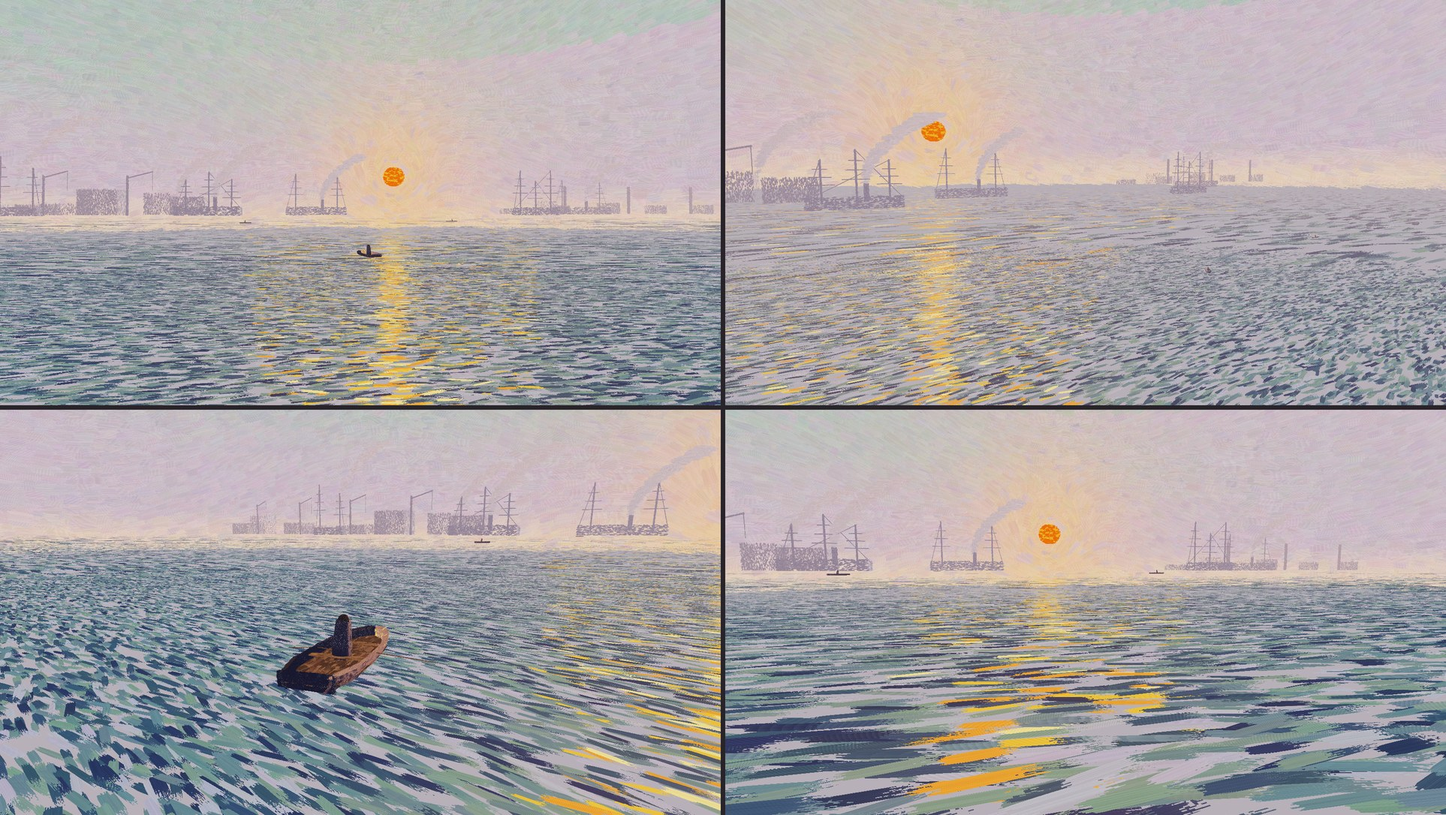
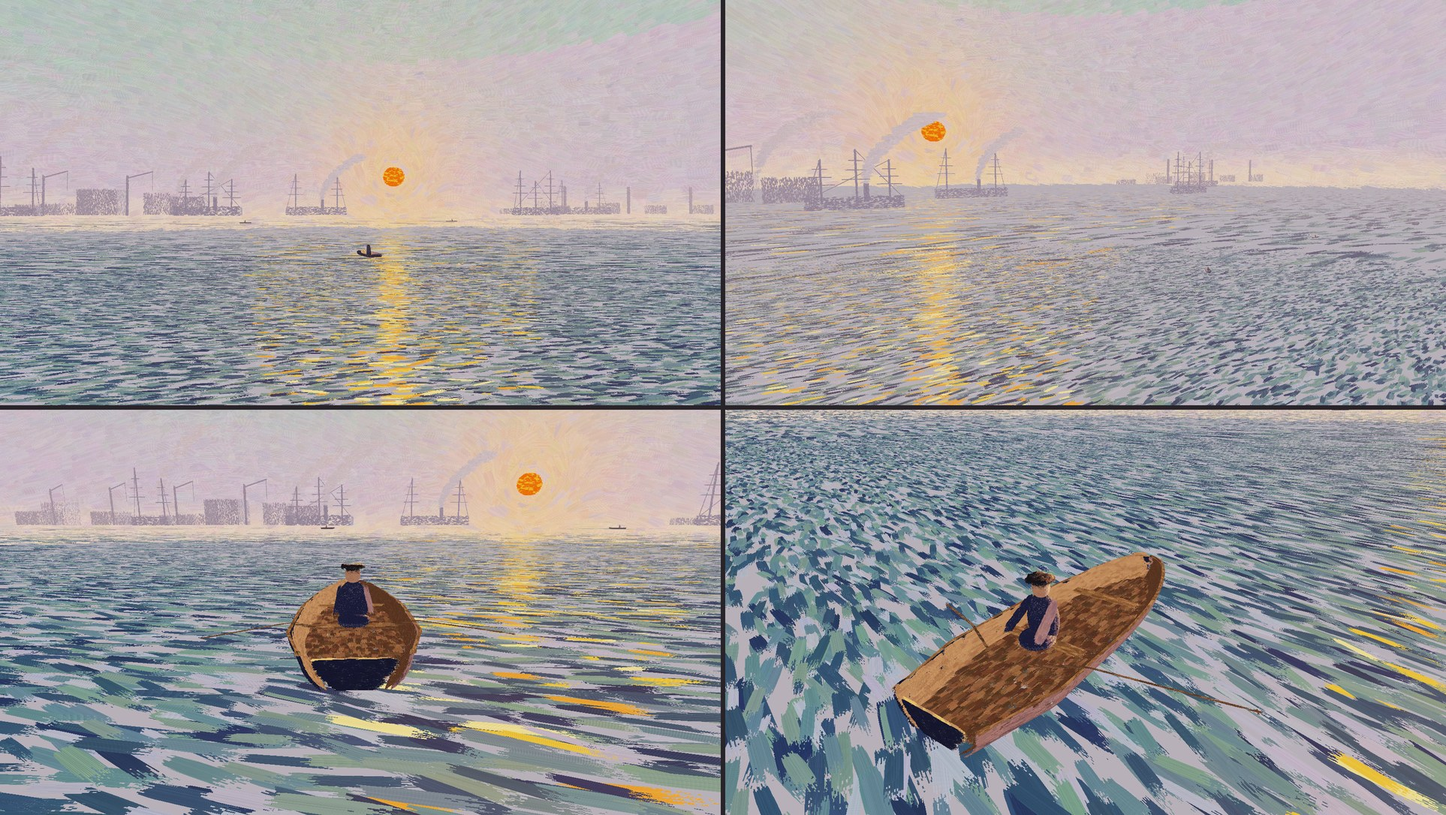
Rebuild the rowboat so nothing sticks out of the hull
Strokes now follow the hull lines and stay inside the outline; transom,
floor and thwarts are cut to the real cross-section, the hull has a dark
outside and a wooden inside, and the rower has a cap, face and arms.

diff --git a/impression-sunrise/index.html b/impression-sunrise/index.html
@@ -388,63 +388,100 @@ function genHarbour(mul, r){
 
 // rowboat with rower and oars, in local space (boat points to -z)
 function genBoat(mul, r){
-  const B = new Batch(Math.floor(14000*Math.max(0.6, mul)) + 2000);
-  const L = 4.4, Wd = 0.8, Dp = 0.55;
-  // pointed bow (u=0, -z), blunt transom stern (u=1, +z)
-  const width = u => Wd*(u < 0.55 ? Math.sqrt(Math.max(0.0001, 1 - Math.pow((0.55 - u)/0.55, 2))) : 1)*(u > 0.8 ? 1 - 0.3*(u - 0.8)/0.2 : 1);
-  const k = Math.floor(5200*Math.max(0.6, mul));
-  for (let i = 0; i < k; i++) {
-    const u = r(), th = r()*Math.PI;
-    const z = (u - 0.5)*L;
-    const wu = width(u);
-    const x = Math.cos(th)*wu, y = 0.25 - Math.sin(th)*Dp*(0.6 + 0.4*wu/Wd);
-    const n = norm([Math.cos(th), -Math.sin(th)*0.6 + 0.2, (u - 0.5)*0.6]);
-    const len = 0.45 + r()*0.4;
-    B.add([x, y, z], [0, (r()-0.5)*0.05, len], n, jitter(P_BOAT, r, 0.2), r()*1000, 0.12 + r()*0.08, 5, 0);
+  const q = Math.max(0.6, mul);
+  const B = new Batch(Math.floor(32000*q) + 4000);
+  // Hull: pointed bow (u=0, -z), blunt transom stern (u=1, +z).
+  // Cross-section is half an ellipse: x = w(u)·cos θ, y = sheer(u) − d(u)·sin θ.
+  const L = 4.4, Wd = 0.78, Dp = 0.52, GUN = 0.27;
+  const width = u => Wd*(u < 0.55 ? Math.sqrt(Math.max(0, 1 - Math.pow((0.55 - u)/0.55, 2))) : 1)*(u > 0.8 ? 1 - 0.3*(u - 0.8)/0.2 : 1);
+  const depth = u => Dp*(0.55 + 0.45*width(u)/Wd);
+  const sheer = u => GUN + 0.10*Math.max(0, 1 - u/0.25);            // the bow rises a little
+  const zOf = u => (u - 0.5)*L;
+  const hullPt = (u, th) => [Math.cos(th)*width(u), sheer(u) - Math.sin(th)*depth(u), zOf(u)];
+  const halfAt = (u, y) => { const t = (sheer(u) - y)/depth(u); return (t >= 1 || t < 0) ? (t < 0 ? width(u) : 0) : width(u)*Math.sqrt(1 - t*t); };
+  const OUT = P_BOAT, WOOD = lin([0.30, 0.21, 0.15]), RAIL = lin([0.38, 0.27, 0.18]);
+  const k = Math.floor(6000*q);
+
+  // 1) hull skin: dark outside, wood inside. Strokes run along the hull lines and never past the tips.
+  for (let layer = 0; layer < 2; layer++) for (let i = 0; i < (layer ? k*0.7 : k); i++) {
+    const u = r(), th = 0.05 + r()*(Math.PI - 0.1);
+    const len = Math.min(0.42, 0.06 + 2*Math.min(u, 1 - u)*L*0.9), du = 0.5*len/L;
+    const a = hullPt(Math.max(0, u - du), th), b = hullPt(Math.min(1, u + du), th), p = hullPt(u, th);
+    let n = norm([Math.cos(th)/Math.max(0.05, width(u)), -Math.sin(th)/depth(u), 0]);
+    if (layer) { p[0] *= 0.94; p[1] += 0.025; a[0] *= 0.94; b[0] *= 0.94; n = [-n[0], -n[1], -n[2]]; }
+    const wdt = Math.min(0.10 + r()*0.05, 0.5*width(u) + 0.03);
+    B.add(p, [b[0]-a[0], b[1]-a[1], b[2]-a[2]], n, jitter(layer ? WOOD : OUT, r, 0.2), r()*1000, wdt, 5, 0);
   }
-  // gunwale
-  for (let i = 0; i < k*0.15; i++) {
-    const u = r(), z = (u - 0.5)*L, side = r() < 0.5 ? -1 : 1;
-    const wu = width(u);
-    B.add([side*wu, 0.27, z], [0, 0, 0.5], [side, 0.5, 0], jitter(lin([0.20, 0.16, 0.18]), r, 0.2), r()*1000, 0.09, 5, 0);
+  // 2) gunwale rails along the sheer line
+  for (let i = 0; i < k*0.2; i++) {
+    const u = 0.01 + r()*0.98, th = r() < 0.5 ? 0 : Math.PI;
+    const len = Math.min(0.35, 0.05 + 2*Math.min(u, 1 - u)*L*0.9), du = 0.5*len/L;
+    const a = hullPt(Math.max(0, u - du), th), b = hullPt(Math.min(1, u + du), th), p = hullPt(u, th);
+    p[1] += 0.01;
+    B.add(p, [b[0]-a[0], b[1]-a[1], b[2]-a[2]], [0, 1, 0], jitter(RAIL, r, 0.15), r()*1000, 0.07, 5, 0);
   }
-  // transom (flat stern board)
-  for (let i = 0; i < k*0.12; i++) {
-    const ws = width(1)*0.98, x = (r()*2 - 1)*ws, y = 0.27 - r()*Dp*0.95;
-    B.add([x, y, L/2], [0.35, 0, 0], [0, 0.1, 1], jitter(P_BOAT, r, 0.2), r()*1000, 0.11, 5, 0);
+  // 3) transom: horizontal planks cut exactly to the U-shaped stern (outside dark, inside wood)
+  const zT = zOf(1);
+  for (let i = 0; i < k*0.18; i++) {
+    const y = sheer(1) - 0.04 - r()*(depth(1) - 0.06);
+    const hw = Math.min(halfAt(1, y - 0.04), halfAt(1, y + 0.04)) - 0.01;
+    if (hw < 0.05) continue;
+    const hl = Math.min(0.16, hw*0.6), x = (r()*2 - 1)*(hw - hl), inside = (i & 1) === 1;
+    B.add([x, y, zT + (inside ? -0.02 : 0.004)], [hl*2, 0, 0], [0, 0, inside ? -1 : 1], jitter(inside ? WOOD : OUT, r, 0.2), r()*1000, 0.08, 5, 0);
   }
-  // plank floor and two thwarts (seats), lighter worn wood
-  for (let i = 0; i < k*0.3; i++) {
-    const u = 0.06 + r()*0.92, z = (u - 0.5)*L, wu = width(u)*0.95;
-    B.add([(r()*2 - 1)*wu, 0.04 + (i % 6)*0.003, z], [0, 0, 0.45], [0, 1, 0], jitter(lin([0.27, 0.19, 0.15]), r, 0.25), r()*1000, 0.13, 5, 0);
+  // 4) floor boards: every stroke stays inside the hull at floor height (above the waterline)
+  const YF = 0.04;
+  for (let i = 0; i < k*0.45; i++) {
+    const u = r(), hu = 0.2/L, u0 = Math.max(0, u - hu), u1 = Math.min(1, u + hu);
+    const lim = Math.min(halfAt(u0, YF), halfAt(u1, YF), halfAt(u, YF))*0.94 - 0.06;
+    if (lim <= 0.03) continue;
+    const z0 = zOf(u0) + 0.03, z1 = zOf(u1) - (u1 >= 1 ? 0.03 : 0);
+    B.add([(r()*2 - 1)*lim, YF + (i % 6)*0.003, (z0 + z1)/2], [0, 0, z1 - z0], [0, 1, 0], jitter(WOOD, r, 0.25), r()*1000, 0.12, 5, 0);
   }
-  for (const zs of [-0.75, 0.55]) for (let i = 0; i < k*0.05; i++) {
-    const u = zs/L + 0.5, wu = width(u)*0.95;
-    B.add([(r()*2 - 1)*wu*0.85, 0.16 + (i % 4)*0.003, zs + (r() - 0.5)*0.2], [0.4, 0, 0], [0, 1, 0], jitter(lin([0.34, 0.24, 0.17]), r, 0.2), r()*1000, 0.1, 5, 0);
+  // 5) two thwarts (seats) spanning the boat
+  const YS = 0.17;
+  for (const zs of [-0.8, 0.6]) {
+    const u = zs/L + 0.5, hw = halfAt(u, YS)*0.94 - 0.02;
+    for (let i = 0; i < k*0.06; i++) {
+      const hlx = Math.min(0.2, hw*0.5), x = (r()*2 - 1)*(hw - hlx);
+      B.add([x, YS + (i % 4)*0.003, zs + (r() - 0.5)*0.14], [hlx*2, 0, 0], [0, 1, 0], jitter(RAIL, r, 0.2), r()*1000, 0.08, 5, 0);
+    }
   }
-  // rower: hunched body, head with cap
-  const kb = Math.floor(2600*Math.max(0.6, mul));
-  for (let i = 0; i < kb; i++) {
-    const th = r()*Math.PI*2, h = r();
-    const rad = 0.24 - 0.06*h;
-    const p = [Math.cos(th)*rad, 0.25 + h*0.62, 0.35 + Math.sin(th)*rad*0.8 - h*0.12];
-    const n = norm([Math.cos(th), 0.15, Math.sin(th)]);
-    B.add(p, [0, 0.28 + r()*0.12, -0.06], n, jitter(lin([0.12, 0.12, 0.20]), r, 0.2), r()*1000, 0.10 + r()*0.05, 5, 0);
-  }
-  for (let i = 0; i < kb*0.35; i++) {
-    const th = r()*Math.PI*2, ph = r()*Math.PI;
-    const n = [Math.cos(th)*Math.sin(ph), Math.cos(ph), Math.sin(th)*Math.sin(ph)];
-    const p = [n[0]*0.13, 1.0 + n[1]*0.13, 0.2 + n[2]*0.13];
-    B.add(p, norm(cross(n, [0, 1, 0.01])).map(v => v*0.12), n, jitter(lin([0.14, 0.11, 0.14]), r, 0.25), r()*1000, 0.06, 5, 0);
-  }
-  // oars: kind 6, normal slot holds the pivot
+  // 6) rower on the aft thwart, facing the stern (+z) as rowers do
+  const ZR = 0.6, COAT = lin([0.12, 0.13, 0.22]);
+  const ell = (c, rx, ry, rz, n0, phMax, col, len, w) => {
+    for (let i = 0; i < n0; i++) {
+      const th = r()*Math.PI*2, ph = Math.acos(1 - r()*(1 - Math.cos(phMax)));
+      const sp = Math.sin(ph), cp = Math.cos(ph);
+      const p = [c[0] + rx*sp*Math.cos(th), c[1] + ry*cp, c[2] + rz*sp*Math.sin(th)];
+      const t = norm([rx*cp*Math.cos(th), -ry*sp, rz*cp*Math.sin(th)]);
+      const n = norm([sp*Math.cos(th)/rx, cp/ry, sp*Math.sin(th)/rz]);
+      B.add(p, t.map(v => v*len), n, typeof col === 'function' ? col(n) : jitter(col, r, 0.2), r()*1000, w, 5, 0);
+    }
+  };
+  const kb = Math.floor(2400*q);
+  ell([0, YS + 0.30, ZR], 0.20, 0.30, 0.14, kb, Math.PI*0.88, COAT, 0.16, 0.07);              // torso (coat)
+  ell([0, YS + 0.10, ZR + 0.12], 0.19, 0.08, 0.20, kb*0.35, Math.PI*0.6, COAT, 0.12, 0.07);   // lap / legs
+  ell([0, YS + 0.70, ZR + 0.01], 0.10, 0.12, 0.10, kb*0.4, Math.PI, n => n[1] > 0.25 ? jitter(lin([0.10, 0.09, 0.12]), r, 0.2) : jitter(lin([0.50, 0.36, 0.30]), r, 0.15), 0.06, 0.04); // head: cap + face
+  ell([0, YS + 0.80, ZR + 0.01], 0.15, 0.015, 0.15, kb*0.12, Math.PI*0.5, lin([0.10, 0.09, 0.12]), 0.07, 0.05);   // cap brim
+  // arms reach forward to the oar handles
+  const PZ = 0.95;
   for (const side of [-1, 1]) {
-    const pivot = [side*0.78, 0.30, 0.1];
-    for (let i = 0; i < 140; i++) {
+    const sh = [side*0.17, YS + 0.50, ZR + 0.02], hd = [side*0.22, GUN + 0.18, PZ];
+    for (let i = 0; i < kb*0.12; i++) {
+      const s = r(), p = [sh[0] + (hd[0]-sh[0])*s + (r()-0.5)*0.06, sh[1] + (hd[1]-sh[1])*s + (r()-0.5)*0.06, sh[2] + (hd[2]-sh[2])*s + (r()-0.5)*0.06];
+      const t = norm([hd[0]-sh[0], hd[1]-sh[1], hd[2]-sh[2]]);
+      B.add(p, t.map(v => v*0.14), norm([side, 0.4, 0]), jitter(COAT, r, 0.2), r()*1000, 0.06, 5, 0);
+    }
+  }
+  // 7) oars (kind 6, the normal slot carries the oarlock pivot)
+  for (const side of [-1, 1]) {
+    const pivot = [side*(halfAt(PZ/L + 0.5, GUN) + 0.03), GUN + 0.04, PZ];
+    for (let i = 0; i < 160; i++) {
       const s = r();
-      const p = [pivot[0] + side*(-0.6 + s*2.9), pivot[1] - s*0.42, pivot[2]];
+      const p = [pivot[0] + side*(-0.55 + s*2.85), pivot[1] - Math.max(0, s - 0.2)*0.5, pivot[2]];
       const blade = s > 0.82;
-      B.add(p, [side*0.35, -0.05, 0], pivot, jitter(blade ? lin([0.30, 0.22, 0.18]) : lin([0.26, 0.20, 0.16]), r, 0.15), r()*1000, blade ? 0.16 : 0.05, 6, 0);
+      B.add(p, [side*0.32, -0.05, 0], pivot, jitter(blade ? lin([0.34, 0.25, 0.19]) : lin([0.28, 0.21, 0.16]), r, 0.15), r()*1000, blade ? 0.15 : 0.045, 6, 0);
     }
   }
   return B;
@@ -630,6 +667,8 @@ function shotCam(id){
   switch (id) {
     case 'close': return {eye: [0, 1.3, 6], look: [3, 0, -6]};
     case 'boat':  return {eye: [10, 3.2, 26], look: [3, 0.8, 16]};
+    case 'boat2': return {eye: [7.5, 2.8, 21], look: [4, 0.3, 17.8]};
+    case 'stern': return {eye: [5.4, 1.6, 23.8], look: [4.2, 0.4, 18.4]};
     case 'sky':   return {eye: [0, 3, 30], look: [SUN[0]*100, 30, -100]};
     case 'tour':  return {eye: [-120, 30, -10], look: [20, 6, -260]};
     default:      return {eye: [0, 4.5, 60], look: [20, 10, -200]};
